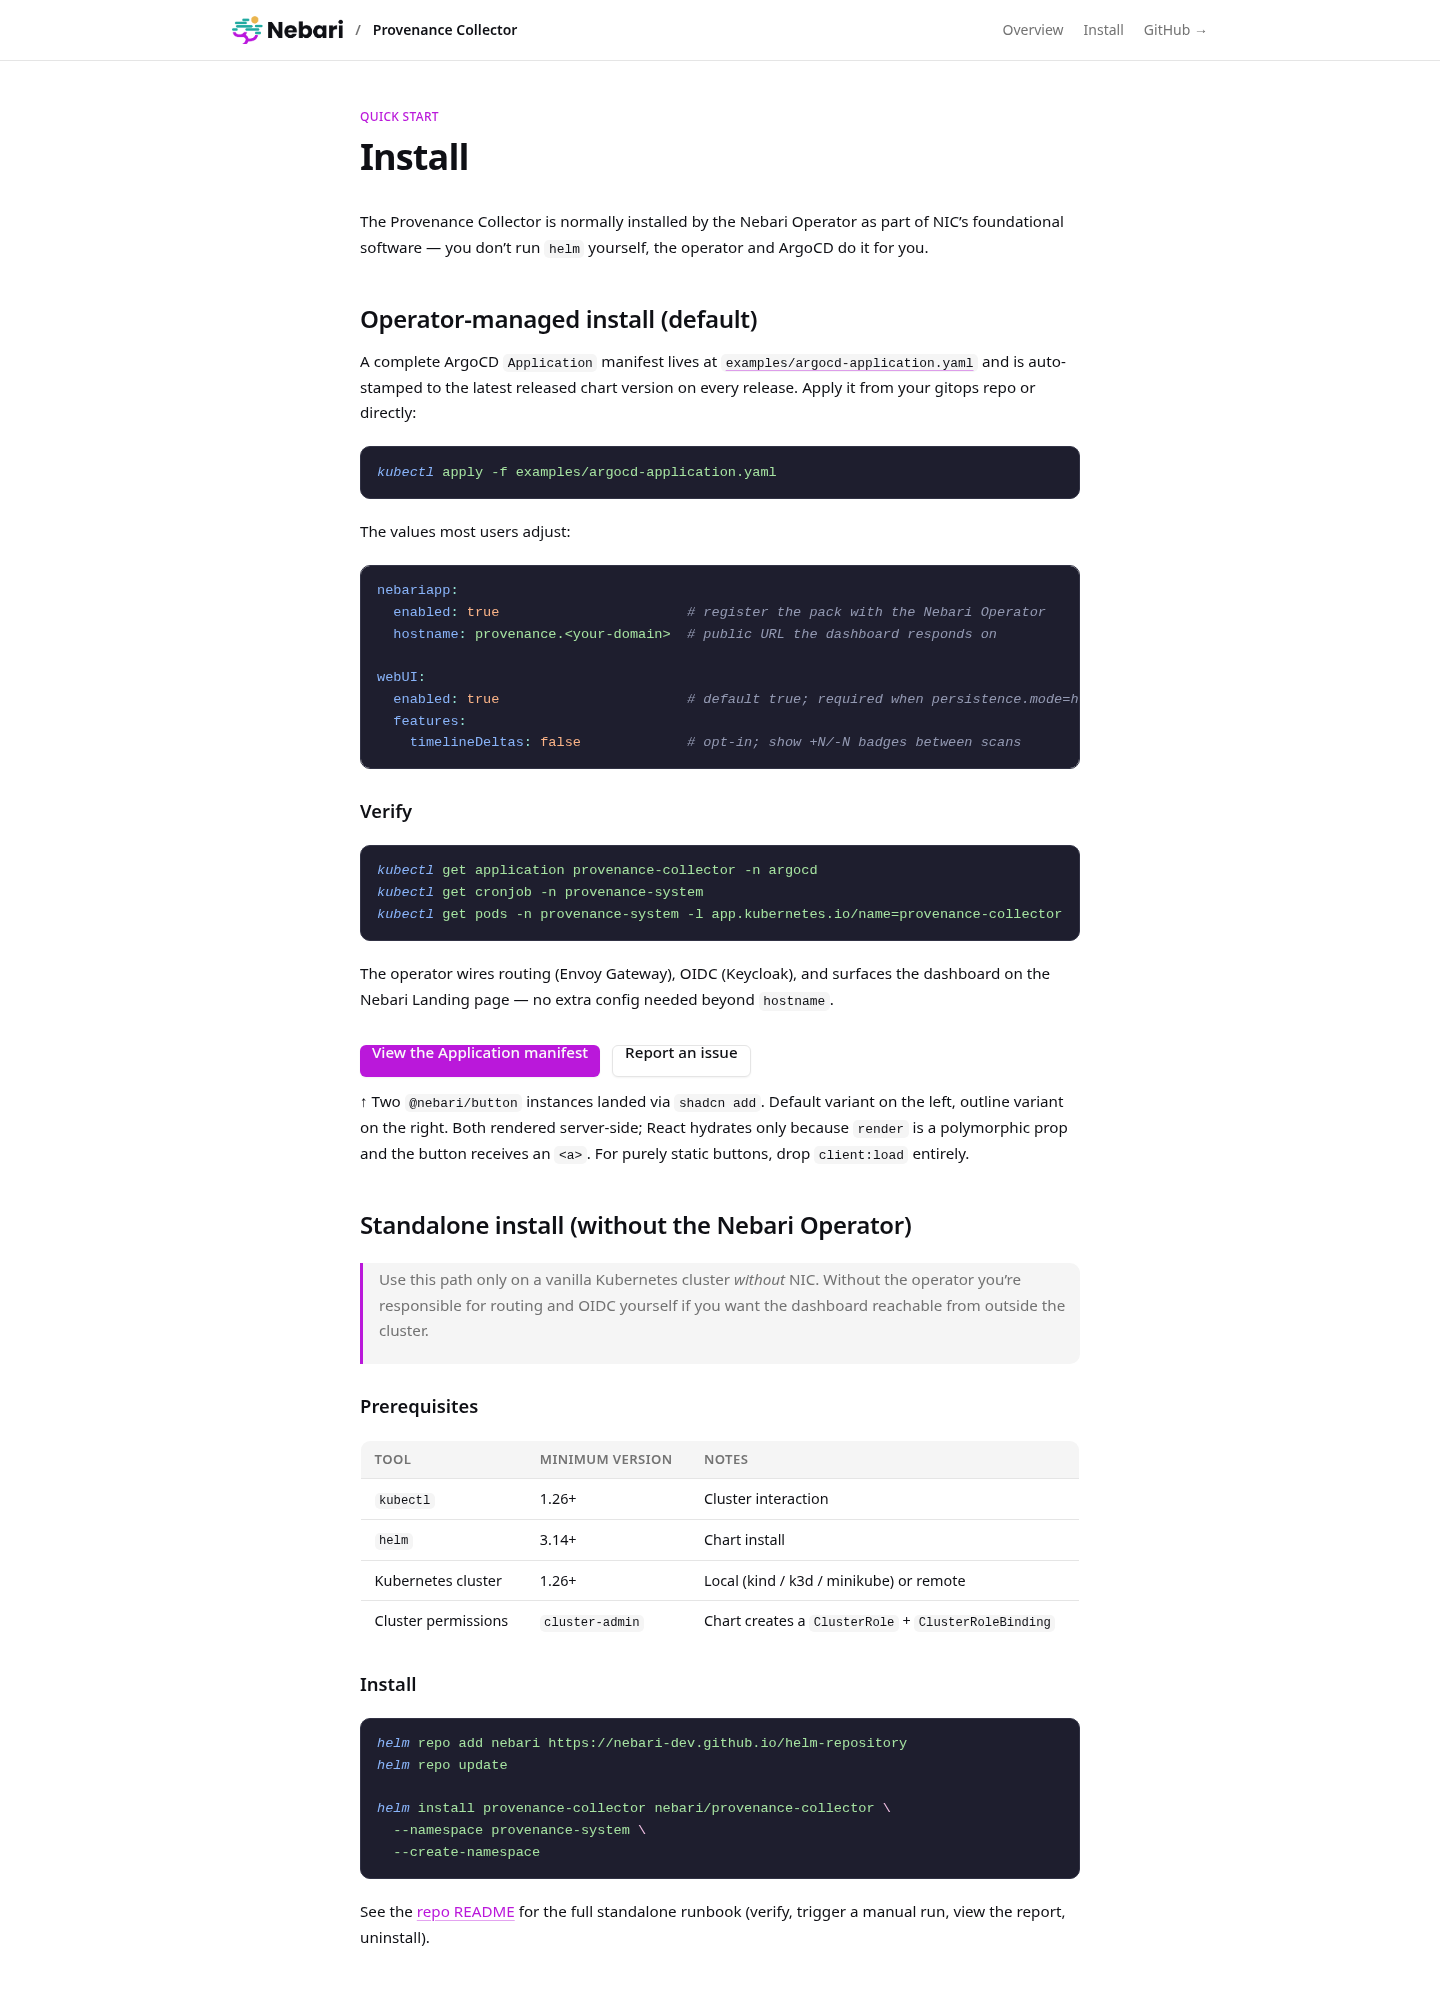
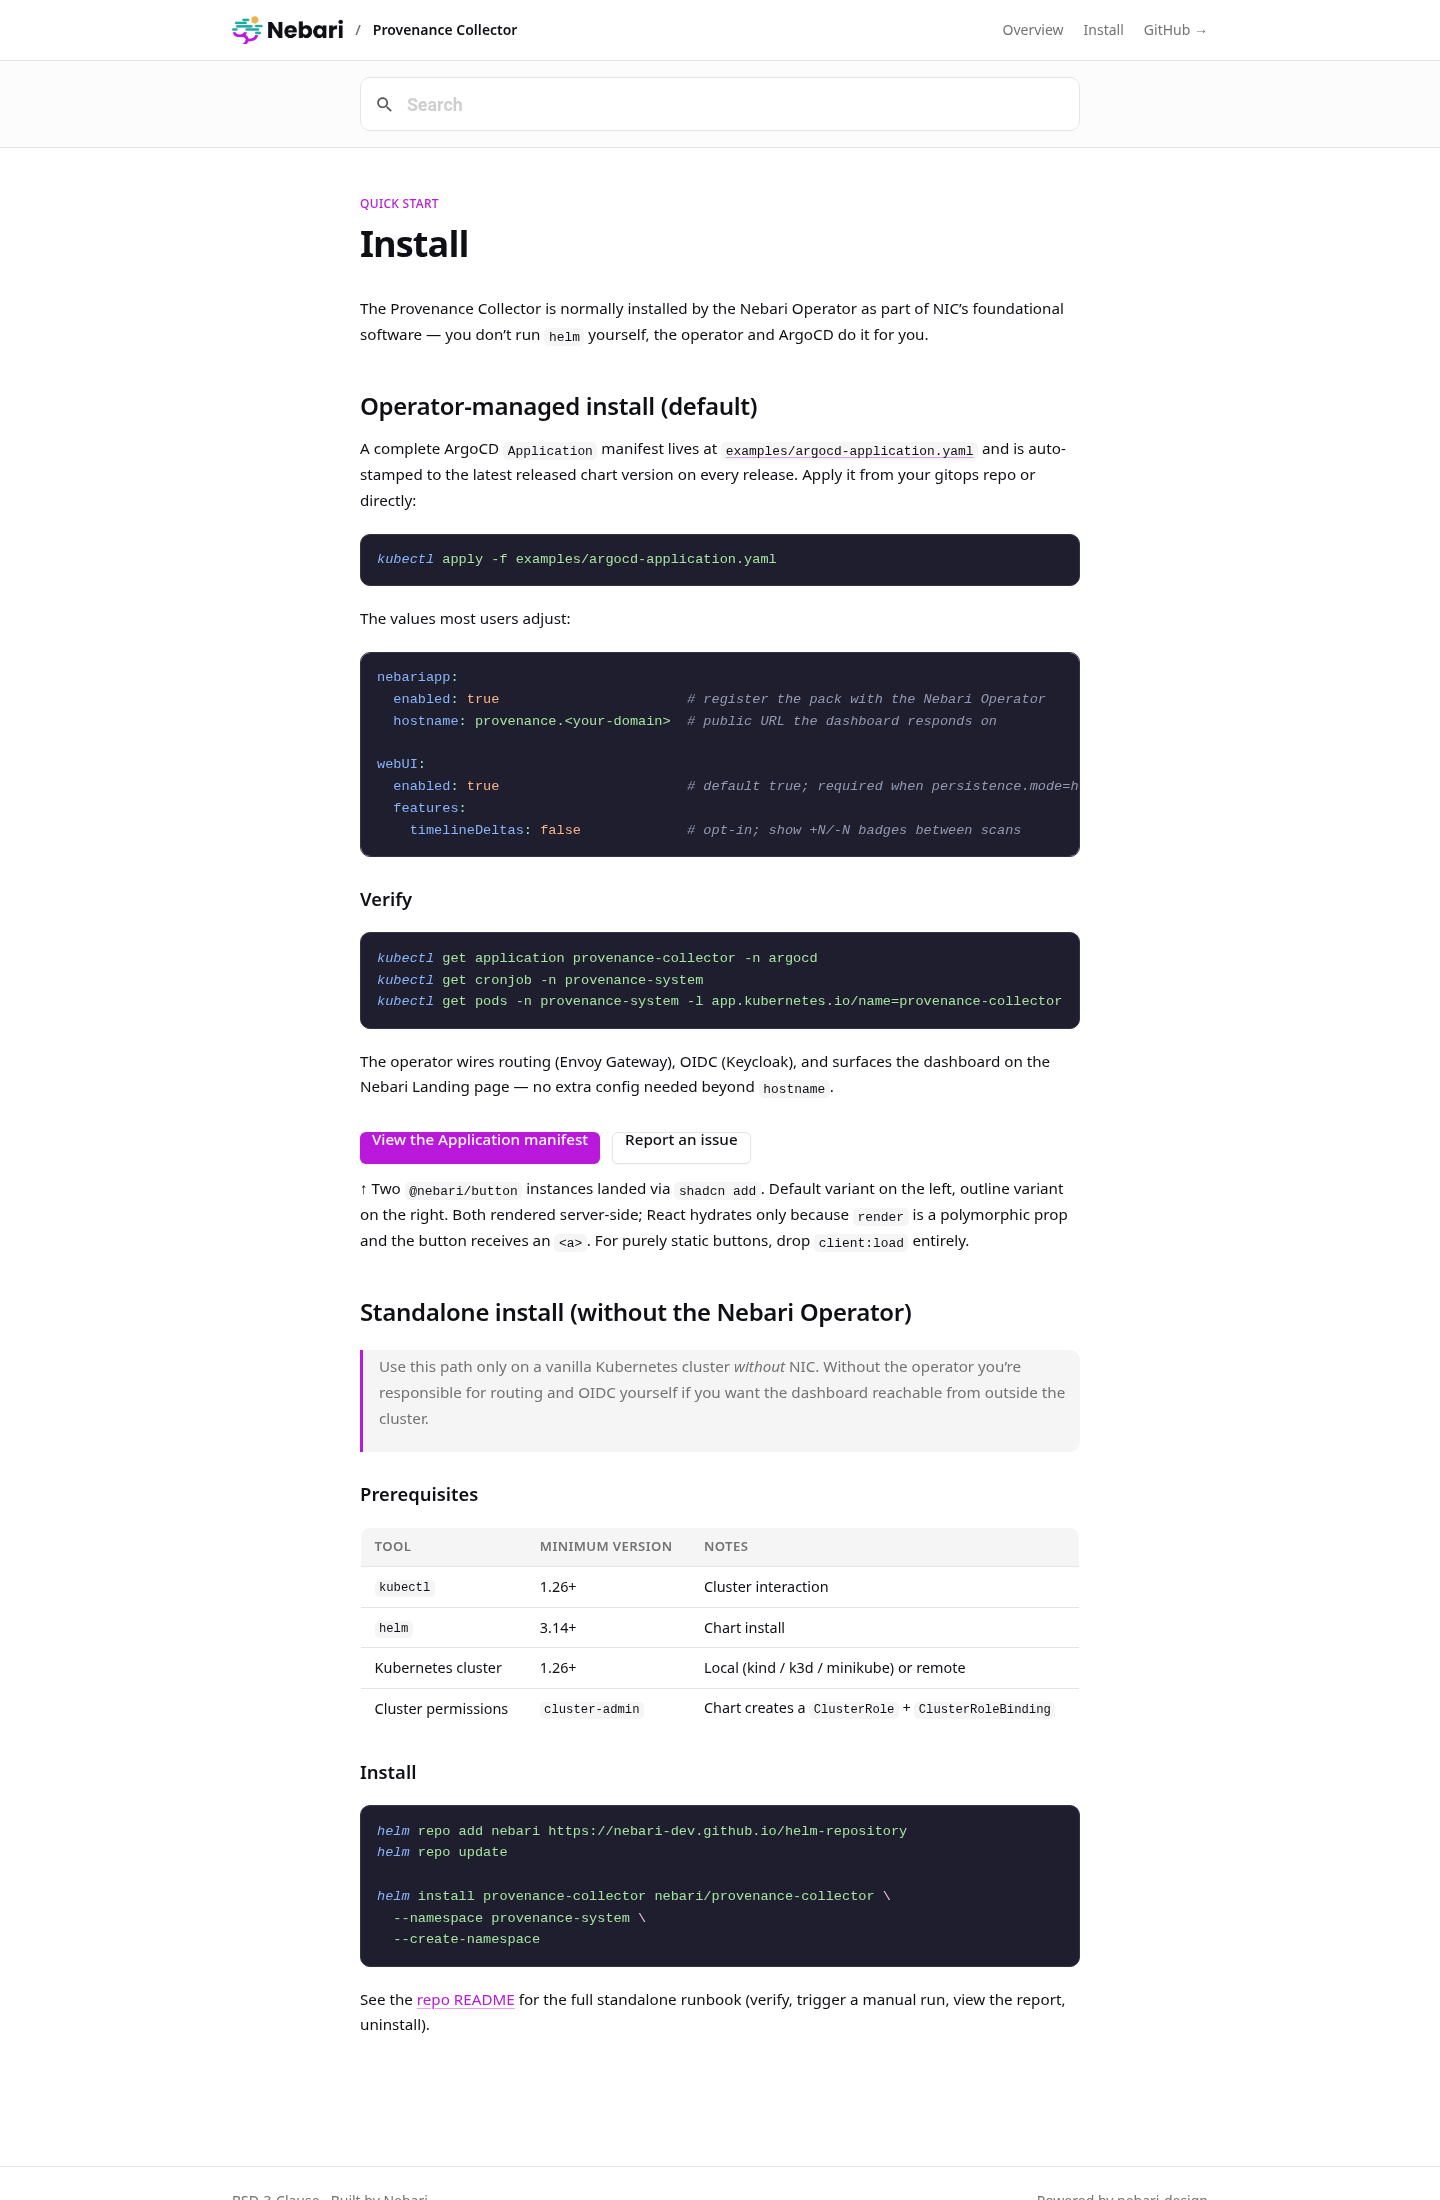
docs(spike): add Pagefind search
Drop-in client-side search via the standard Pagefind CLI. `npm run
build` now chains `astro build && pagefind --site dist`, which scans the
built HTML, indexes `<main>` content, and writes `dist/pagefind/` (search
index + UI assets). The layout loads them on production builds only —
astro dev skips the script tags so the console isn't noised up by 404s.

Themed to the @user design tokens via Pagefind's CSS custom property
hooks (--pagefind-ui-primary, --pagefind-ui-background, etc.), so the
search input inherits the same primary purple as the rest of the site.

Index size for the two-page spike: 299 words. Index + UI assets add
~150KB to the deployed site.

Changed region(s): [[0.25, 0.0, 0.75, 0.961], [0.1562, 0.0, 0.25, 0.031], [0.1562, 0.992, 0.1875, 1.0]]

diff --git a/docs-site/src/styles/globals.css b/docs-site/src/styles/globals.css
@@ -259,3 +259,20 @@ main a:not([class]) {
 main a:not([class]):hover {
   text-decoration-color: var(--primary);
 }
+
+/*
+ * Pagefind UI theming. Pagefind ships its own widget; these CSS vars let
+ * us recolor it to match the @nebari/theme tokens without forking the
+ * stylesheet.
+ */
+.pagefind-search {
+  --pagefind-ui-scale: 0.85;
+  --pagefind-ui-primary: var(--primary);
+  --pagefind-ui-text: var(--foreground);
+  --pagefind-ui-background: var(--background);
+  --pagefind-ui-border: var(--border);
+  --pagefind-ui-tag: var(--muted);
+  --pagefind-ui-border-width: 1px;
+  --pagefind-ui-border-radius: var(--radius);
+  --pagefind-ui-font: inherit;
+}

diff --git a/docs-site/README.md b/docs-site/README.md
@@ -16,6 +16,8 @@ npm run preview  # serve the built output
 
 Production build outputs static files under `dist/` — no SSR runtime, no server, no special hosting.
 
+`npm run build` runs `astro build` then `pagefind --site dist`, which scans the built HTML, indexes `<main>` content, and writes `dist/pagefind/` (the search index + UI assets the layout's header loads at runtime). The search box appears only on production builds — `astro dev` skips loading the Pagefind assets so console isn't noised up by 404s.
+
 ## Layout
 
 ```